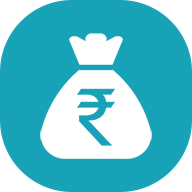
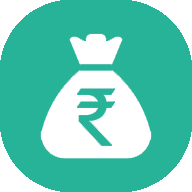
UI Changed

diff --git a/src/assets/styles/index.css b/src/assets/styles/index.css
@@ -8,7 +8,7 @@
   --bs-yellow: #fcb92c;
   --bs-green: #1cbb8c;
   --bs-teal: #20c997;
-  --bs-cyan: #17a2b8;
+  --bs-cyan: #27b397;
   --bs-white: #fff;
   --bs-gray: #6c757d;
   --bs-gray-dark: #343a40;
@@ -24,7 +24,8 @@
   --bs-primary: #3b7ddd;
   --bs-secondary: #6c757d;
   --bs-success: #1cbb8c;
-  --bs-info: #17a2b8;
+  /* --bs-info: #27b397; */
+  --bs-info: #27b397;
   --bs-warning: #fcb92c;
   --bs-danger: #dc3545;
   --bs-light: #f5f7fb;
@@ -2740,15 +2741,15 @@ fieldset:disabled .btn {
   color: #000;
 }
 .btn-info {
-  background-color: #17a2b8;
-  border-color: #17a2b8;
+  background-color: #27b397;
+  border-color: #27b397;
   color: #fff;
 }
 .btn-check:focus + .btn-info,
 .btn-info:focus,
 .btn-info:hover {
-  background-color: #148a9c;
-  border-color: #128293;
+  background-color: #27b397;
+  border-color: #27b397;
   color: #fff;
 }
 .btn-check:focus + .btn-info,
@@ -2760,8 +2761,8 @@ fieldset:disabled .btn {
 .btn-info.active,
 .btn-info:active,
 .show > .btn-info.dropdown-toggle {
-  background-color: #128293;
-  border-color: #117a8a;
+  background-color: #27b39790;
+  border-color: #27b397;
   color: #fff;
 }
 .btn-check:active + .btn-info:focus,
@@ -2769,12 +2770,12 @@ fieldset:disabled .btn {
 .btn-info.active:focus,
 .btn-info:active:focus,
 .show > .btn-info.dropdown-toggle:focus {
-  box-shadow: 0 0 0 0.2rem rgba(58, 176, 195, 0.5);
+  box-shadow: 0 0 0 0.2rem #27b39750;
 }
 .btn-info.disabled,
 .btn-info:disabled {
-  background-color: #17a2b8;
-  border-color: #17a2b8;
+  background-color: #27b397;
+  border-color: #27b397;
   color: #fff;
 }
 .btn-warning {
@@ -3032,12 +3033,12 @@ fieldset:disabled .btn {
   color: #1cbb8c;
 }
 .btn-outline-info {
-  border-color: #17a2b8;
-  color: #17a2b8;
+  border-color: #27b397;
+  color: #27b397;
 }
 .btn-outline-info:hover {
-  background-color: #17a2b8;
-  border-color: #17a2b8;
+  background-color: #27b397;
+  border-color: #27b397;
   color: #fff;
 }
 .btn-check:focus + .btn-outline-info,
@@ -3049,8 +3050,8 @@ fieldset:disabled .btn {
 .btn-outline-info.active,
 .btn-outline-info.dropdown-toggle.show,
 .btn-outline-info:active {
-  background-color: #17a2b8;
-  border-color: #17a2b8;
+  background-color: #27b397;
+  border-color: #27b397;
   color: #fff;
 }
 .btn-check:active + .btn-outline-info:focus,
@@ -3063,7 +3064,7 @@ fieldset:disabled .btn {
 .btn-outline-info.disabled,
 .btn-outline-info:disabled {
   background-color: transparent;
-  color: #17a2b8;
+  color: #27b397;
 }
 .btn-outline-warning {
   border-color: #fcb92c;
@@ -4754,7 +4755,7 @@ fieldset:disabled .btn {
   color: #49c9a3;
 }
 .link-info {
-  color: #17a2b8;
+  color: #27b397;
 }
 .link-info:focus,
 .link-info:hover {
@@ -5119,7 +5120,7 @@ fieldset:disabled .btn {
   border-color: #1cbb8c !important;
 }
 .border-info {
-  border-color: #17a2b8 !important;
+  border-color: #27b397 !important;
 }
 .border-warning {
   border-color: #fcb92c !important;

diff --git a/src/assets/styles/App.css b/src/assets/styles/App.css
@@ -1,3 +1,9 @@
+body {
+  background: #fff;
+}
+a {
+  color: #137763;
+}
 .hide {
   display: none;
 }
@@ -49,9 +55,6 @@
 }
 
 .captcha-container canvas {
-  background-color: #fff;
-  border: 1px solid #ced4da;
-  border-radius: 0.3rem;
   color: #495057;
 }
 .captcha-container button {
@@ -113,7 +116,7 @@
 
 .sidebar-item.active .sidebar-link:hover,
 .sidebar-item.active > .sidebar-link {
-  border-left-color: #17a2b8;
+  border-left-color: #27b397;
 }
 .sidebar-link,
 a.sidebar-link {
@@ -126,7 +129,7 @@ a.sidebar-link {
   width: 50px;
   aspect-ratio: 1;
   border-radius: 50%;
-  background: #17a2b8;
+  background: #27b397;
   -webkit-mask: radial-gradient(
     circle closest-side at 50% 40%,
     #0000 94%,
@@ -158,10 +161,9 @@ a.sidebar-link {
 .eye-pos .eye {
   position: absolute;
   right: 1px;
-  top: 25px;
+  top: 26px;
   padding: 7px;
   cursor: pointer;
-  background: #efefef;
   border-top-right-radius: 3px;
   border-bottom-right-radius: 3px;
 }
@@ -282,17 +284,41 @@ a.sidebar-link {
   z-index: 1;
 }
 .login-bg {
-  background: #128293;
+  background: #27b397;
   position: relative;
 }
-.login-bg::after {
-  content: "";
-  position: absolute;
-  left: 100%;
-  top: 0%;
+.login-left-block {
+  background-image: url("./images/pattern.png");
+  width: 100%;
   height: 100%;
-  background: url(/images/bg-waves.png);
-  width: 120px;
+}
+.login-left-block {
+  padding-top: 200px;
+}
+.login-left-block .text-info b {
+  color: #fff;
+}
+.login-box {
+  box-shadow: none;
+  background: transparent;
+}
+.login-box .form-control {
+  background-color: #edf5f3;
+}
+.captcha-container canvas {
+  width: 100%;
+}
+input[type="file"]::file-selector-button {
+  border: 2px solid #27b397;
+  padding: 0.2em 0.4em;
+  border-radius: 0.2em;
+  background-color: #27b397;
+  color: #fff;
+  transition: 1s;
+}
+input[type="file"]::file-selector-button:hover {
+  background-color: #27b39790;
+  border: 2px solid #27b39790;
 }
 @media (min-width: 991.98px) {
   .content {
@@ -302,12 +328,21 @@ a.sidebar-link {
     height: 102%;
   }
 }
+@media (max-width: 767px) {
+  .login-left-block {
+    padding: 24px 0;
+  }
+}
 @media (max-width: 991.98px) {
   .pos-abs-link-box {
     position: absolute;
     z-index: 999;
     top: -2px;
     right: 25px;
+  }
+
+  .h-100 {
+    height: initial !important;
   }
 }
 @media (min-width: 1200px) {

diff --git a/src/pages/Register.jsx b/src/pages/Register.jsx
@@ -151,30 +151,29 @@ const Register = () => {
   return (
     <>
       <main className="d-flex w-100 login">
-        <div className="container d-flex flex-column">
+        <div className="container-fluid d-flex flex-column">
           <div className="row vh-100">
-            <div className="col-sm-10 col-md-8 col-lg-6 mx-auto d-table h-100">
+            <div className="col-sm-12 col-md-6 col-lg-7 login-bg p-0">
+              <div className="text-center login-left-block">
+                <img
+                  src={`${
+                    import.meta.env.VITE_PUBLIC_IMAGES_URL
+                  }/logo-white.png`}
+                  alt="logo"
+                  className="img-fluid my-2"
+                  style={{ width: "84px" }}
+                />
+                <h2 className="text-info mt-2 mb-3">
+                  <b>Track My Money</b>
+                </h2>
+              </div>
+            </div>
+            <div className="col-sm-10 col-md-6 col-lg-5 mx-auto d-table h-100">
               <div className="d-table-cell align-middle">
-                <div className="text-center">
-                  <img
-                    src={`${import.meta.env.VITE_PUBLIC_IMAGES_URL}/logo.png`}
-                    alt="logo"
-                    className="img-fluid my-2"
-                    style={{ width: "32px" }}
-                  />
-                  <h2 className="text-info mb-3">
-                    <b>Track My Money</b>
-                  </h2>
-                </div>
-                <div className="card">
+                <div className="card login-box">
                   <div className="card-body">
-                    <div
-                      className="text-center bg-light p-2"
-                      style={{ borderRadius: "5px" }}
-                    >
-                      <h4 className="m-0">Register</h4>
-                    </div>
                     <div className="m-sm-4">
+                      <h2 className="mb-3">Register</h2>
                       <Formik
                         initialValues={initialValues}
                         onSubmit={onSubmit}

diff --git a/src/pages/Login.jsx b/src/pages/Login.jsx
@@ -101,30 +101,27 @@ const Login = () => {
       <main className="d-flex w-100 login">
         <div className="container-fluid d-flex flex-column">
           <div className="row vh-100">
-            <div className="col-sm-12 col-md-5 col-lg-6 login-bg"></div>
-            <div className="col-md-1 col-lg-1 login-bg-patch"></div>
+            <div className="col-sm-12 col-md-6 col-lg-7 login-bg p-0">
+              <div className="text-center login-left-block">
+                <img
+                  src={`${
+                    import.meta.env.VITE_PUBLIC_IMAGES_URL
+                  }/logo-white.png`}
+                  alt="logo"
+                  className="img-fluid my-2"
+                  style={{ width: "84px" }}
+                />
+                <h1 className="text-info mt-2 mb-3">
+                  <b>Track My Money</b>
+                </h1>
+              </div>
+            </div>
             <div className="col-sm-10 col-md-6 col-lg-5 mx-auto d-table h-100">
               <div className="d-table-cell align-middle">
-                <div className="text-center">
-                  <img
-                    src={`${import.meta.env.VITE_PUBLIC_IMAGES_URL}/logo.png`}
-                    alt="logo"
-                    className="img-fluid my-2"
-                    style={{ width: "32px" }}
-                  />
-                  <h2 className="text-info mb-3">
-                    <b>Track My Money</b>
-                  </h2>
-                </div>
-                <div className="card">
+                <div className="card login-box">
                   <div className="card-body">
-                    <div
-                      className="text-center bg-light p-2"
-                      style={{ borderRadius: "5px" }}
-                    >
-                      <h4 className="m-0">Login</h4>
-                    </div>
                     <div className="m-sm-4">
+                      <h2 className="mb-3">Login</h2>
                       <Formik
                         initialValues={initialValues}
                         onSubmit={onSubmit}
